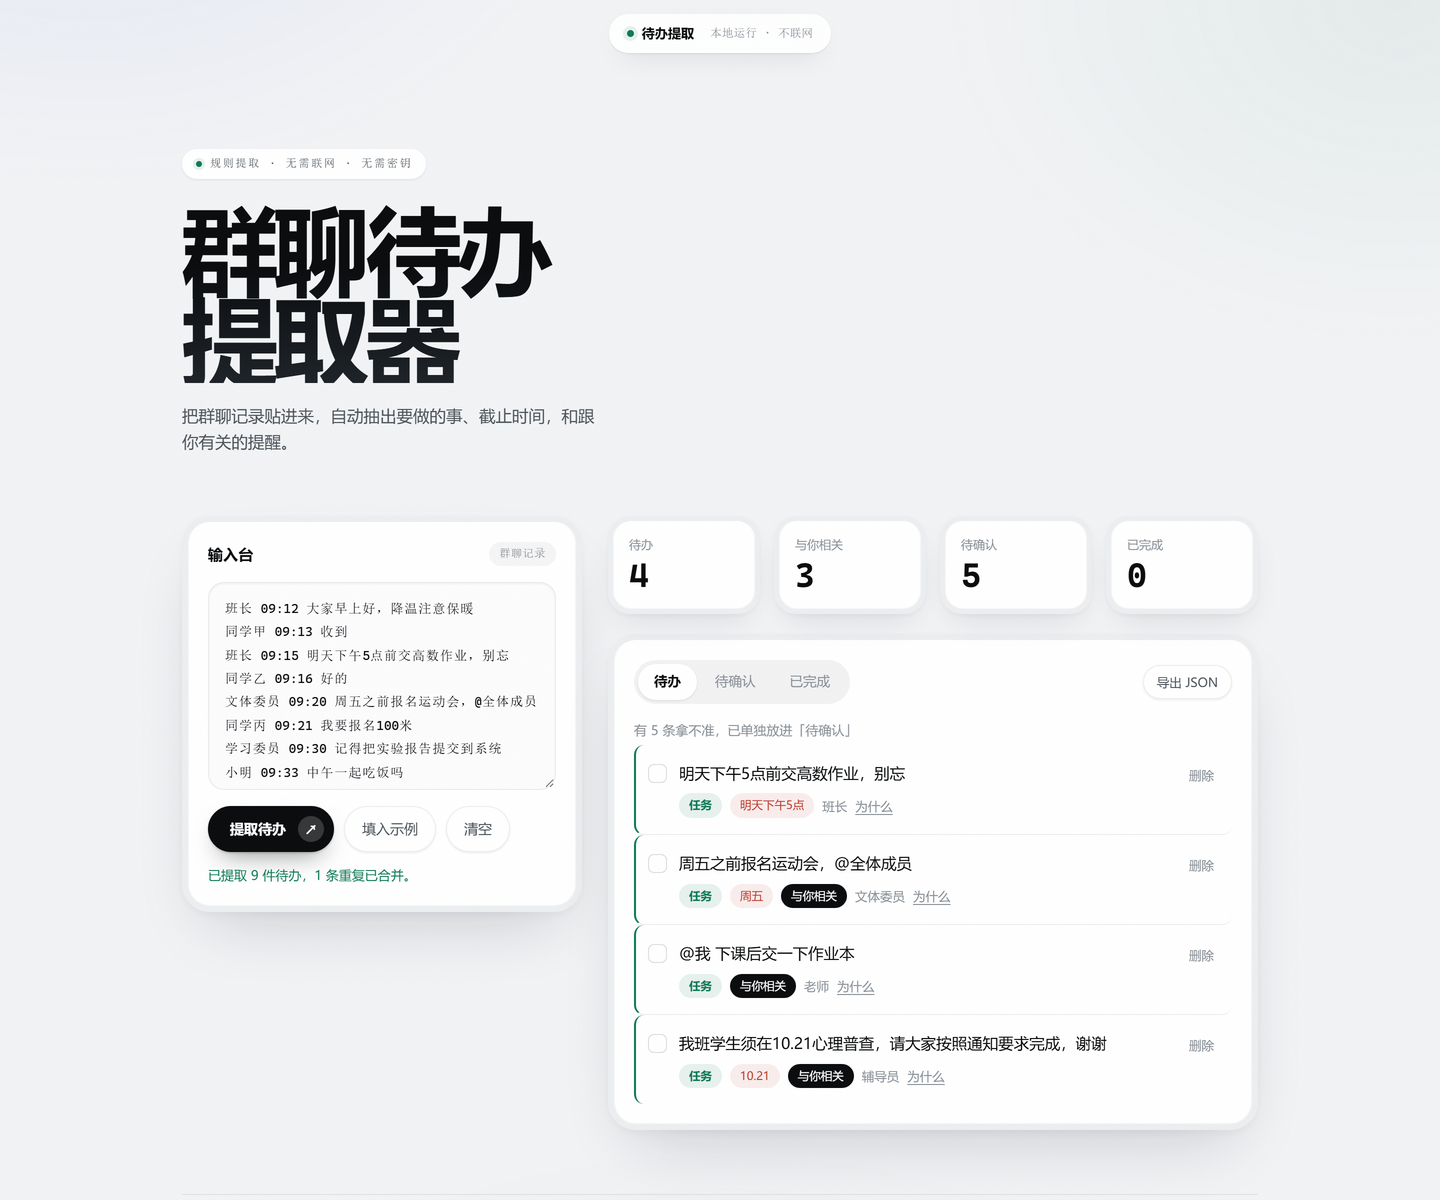
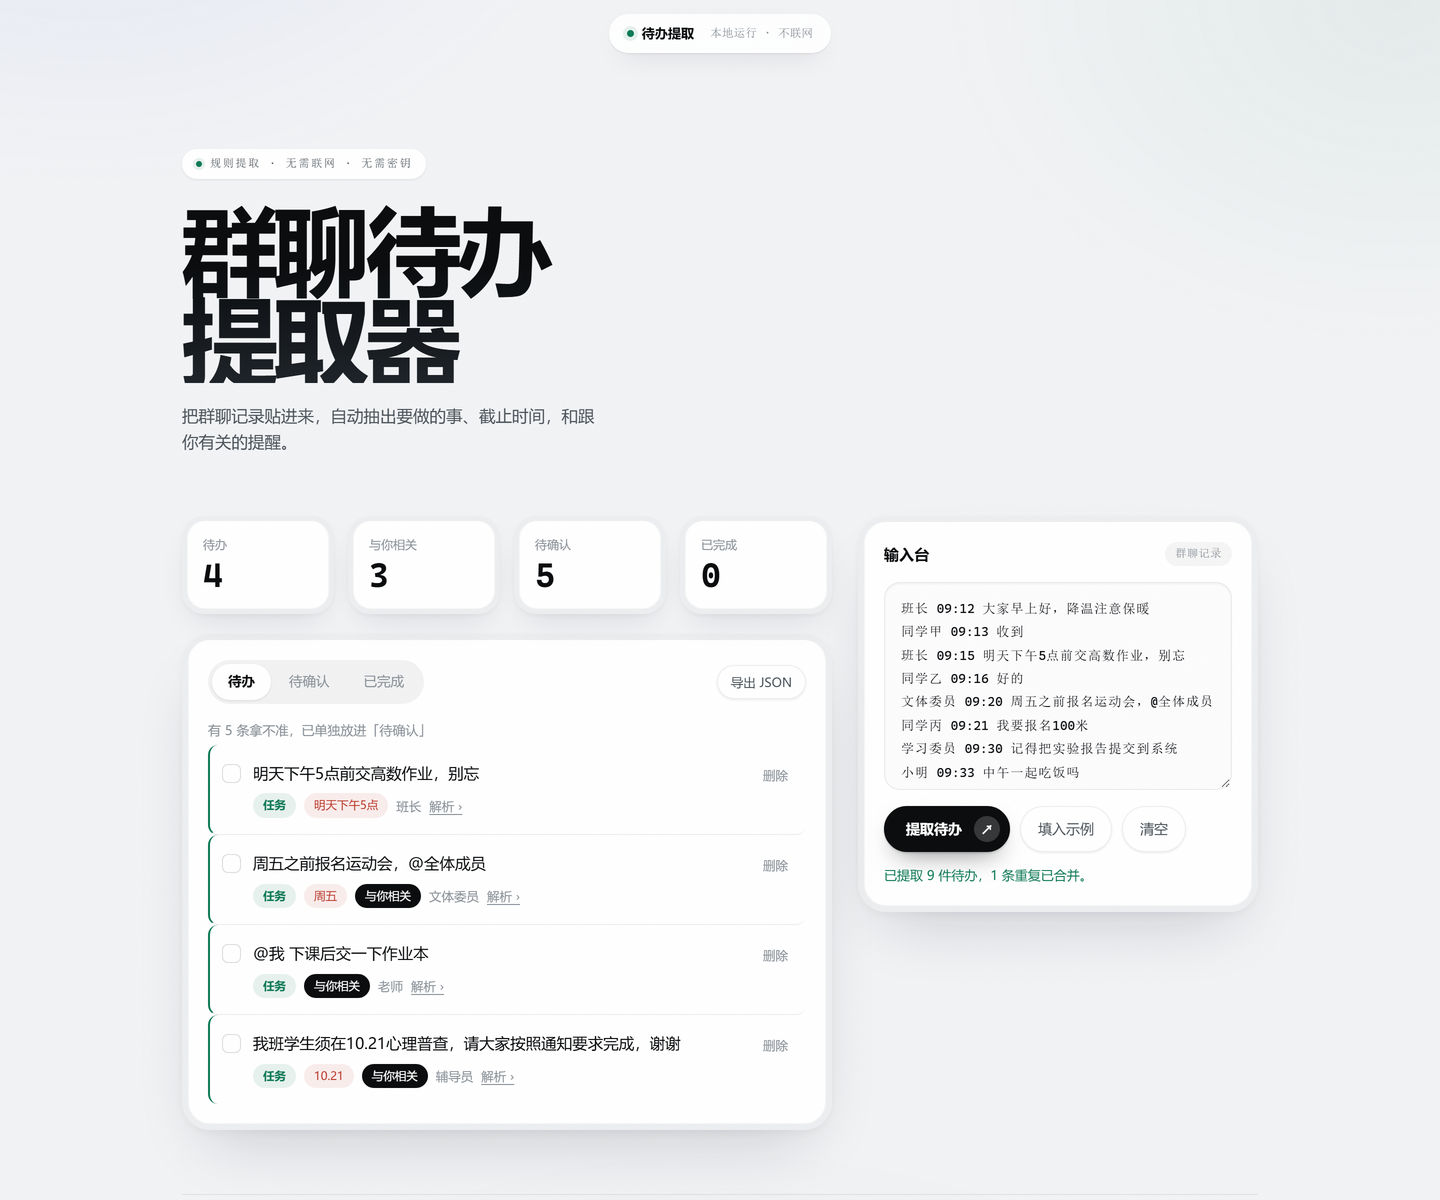
布局调整：结果左移、输入台右移，点击条目就地展开解析
- 栅格改为「左结果 / 右输入台」（grid-template-areas），移动端仍为单列、输入台在前
- 右侧面板双态：输入台 ↔ 解析（点某条即切换，点同一行或「返回输入台」切回）
- 解析面板展示类型/状态/截止/相关性、逐条提取依据、原文高亮
- 原行内「为什么」展开改为「解析 ›」入口，条目整行可点、选中态高亮
- 切标签、重新提取、清空时自动收起解析；移动端选中后平滑滚到面板
- 桌面 1440 / 移动 390 零横向溢出，vision 双端复核通过

diff --git a/app.js b/app.js
@@ -40,10 +40,19 @@
   const statRelevantEl = document.getElementById('stat-relevant');
   const statConfirmEl = document.getElementById('stat-confirm');
   const statDoneEl = document.getElementById('stat-done');
+  const sideEl = document.getElementById('side');
+  const consoleEl = document.getElementById('console');
+  const detailEl = document.getElementById('detail');
+  const detailTextEl = document.getElementById('detail-text');
+  const detailMetaEl = document.getElementById('detail-meta');
+  const detailReasonsEl = document.getElementById('detail-reasons');
+  const detailSourceEl = document.getElementById('detail-source');
+  const detailCloseBtn = document.getElementById('detail-close');
   const tabEls = Array.from(document.querySelectorAll('.tab'));
 
   let items = [];
   let filter = 'todo';
+  let selectedId = null;
 
   // ---- 解析一行：昵称 时间 内容 / 昵称: 内容 / 纯内容 ----
   function parseLine(line) {
@@ -149,26 +158,84 @@
 
   function itemHTML(item) {
     const cls = item.done ? 'done' : item.state;
+    const selected = item.id === selectedId ? ' item--selected' : '';
     const typeKey = item.type || 'task';
     const type = '<span class="chip chip--type chip--type-' + typeKey + '">' + TYPE_LABEL[typeKey] + '</span>';
     const deadline = item.deadline ? '<span class="chip chip--deadline">' + escapeHTML(item.deadline) + '</span>' : '';
     const source = item.source ? '<span class="source">' + escapeHTML(item.source) + '</span>' : '';
     const me = item.relevant ? '<span class="chip chip--me">与你相关</span>' : '';
-    const why = item.reasons.length ? '<span class="why-reason">' + escapeHTML(item.reasons.join(' · ')) + '</span>' : '';
     return '' +
-      '<li class="item item--' + cls + '" data-id="' + item.id + '">' +
+      '<li class="item item--' + cls + selected + '" data-id="' + item.id + '">' +
         '<input type="checkbox" class="done-toggle"' + (item.done ? ' checked' : '') + '>' +
         '<div class="body">' +
           '<div class="text">' + escapeHTML(item.text) + '</div>' +
           '<div class="meta">' + type + deadline + me + source +
-            '<button type="button" class="why-toggle">为什么</button>' +
-          '</div>' +
-          '<div class="why" hidden>' + why +
-            '<p class="why-source">原文：' + highlightedSource(item) + '</p>' +
+            '<span class="item__more">解析 ›</span>' +
           '</div>' +
         '</div>' +
         '<button type="button" class="del" title="删除">删除</button>' +
       '</li>';
+  }
+
+  function chipHTML(label, cls) {
+    return '<span class="chip ' + cls + '">' + escapeHTML(label) + '</span>';
+  }
+
+  // 右侧「解析」：把这条为什么被抽出来的依据摊开
+  function renderDetail(item) {
+    const typeKey = item.type || 'task';
+    const stateLabel = item.done ? '已完成' : (item.state === 'todo' ? '待办' : '待确认');
+
+    detailTextEl.textContent = item.text;
+
+    const meta = [
+      chipHTML(TYPE_LABEL[typeKey], 'chip--type chip--type-' + typeKey),
+      chipHTML(stateLabel, 'chip--state' + (item.done ? ' chip--state-done' : ''))
+    ];
+    if (item.deadline) meta.push(chipHTML('截止 ' + item.deadline, 'chip--deadline'));
+    if (item.relevant) meta.push(chipHTML('与你相关', 'chip--me'));
+    if (item.source) meta.push('<span class="source">' + escapeHTML(item.source) + '</span>');
+    detailMetaEl.innerHTML = meta.join('');
+
+    const reasons = item.reasons.length ? item.reasons : ['未命中特定规则，按时间或相关性保留'];
+    detailReasonsEl.innerHTML = reasons.map(function (r) {
+      return '<li>' + escapeHTML(r) + '</li>';
+    }).join('');
+
+    detailSourceEl.innerHTML = highlightedSource(item);
+  }
+
+  function revealSide() {
+    if (!window.matchMedia('(max-width: 919px)').matches) return;
+    const reduce = window.matchMedia('(prefers-reduced-motion: reduce)').matches;
+    sideEl.scrollIntoView({ behavior: reduce ? 'auto' : 'smooth', block: 'start' });
+  }
+
+  // 点某条 → 输入台换成解析；再点一次（或点返回）换回来
+  function selectItem(id) {
+    const item = items.find(function (i) { return i.id === id; });
+    if (!item) return;
+    selectedId = id;
+    renderDetail(item);
+    consoleEl.hidden = true;
+    detailEl.hidden = false;
+    renderList();
+    revealSide();
+  }
+
+  function closeDetail() {
+    selectedId = null;
+    detailEl.hidden = true;
+    consoleEl.hidden = false;
+    renderList();
+    revealSide();
+  }
+
+  // 重新提取/清空时收起解析
+  function resetSelection() {
+    selectedId = null;
+    detailEl.hidden = true;
+    consoleEl.hidden = false;
   }
 
   function renderList() {
@@ -238,6 +305,7 @@
     const text = chatEl.value;
     if (!text.trim()) {
       items = [];
+      resetSelection();
       renderAll();
       setActiveTab();
       setHint('先把群聊记录贴进来，再点提取。', 'warn');
@@ -246,6 +314,7 @@
     const r = extractAll(text);
     items = r.items;
     filter = 'todo';
+    resetSelection();
     renderAll();
     setActiveTab();
     if (items.length === 0) {
@@ -265,6 +334,7 @@
     items = [];
     filter = 'todo';
     setHint('');
+    resetSelection();
     renderAll();
     setActiveTab();
     save();
@@ -273,6 +343,8 @@
   tabEls.forEach(function (t) {
     t.addEventListener('click', function () {
       filter = t.dataset.filter;
+      // 切标签后选中项可能不在当前列表里，收起解析避免「面板有内容但没选中项」
+      if (selectedId) resetSelection();
       setActiveTab();
       renderList();
     });
@@ -289,22 +361,23 @@
       item.done = e.target.checked;
       save();
       renderSummary();
+      if (selectedId === id) renderDetail(item);
       renderList();
-      return;
-    }
-    if (e.target.classList.contains('why-toggle')) {
-      const why = itemEl.querySelector('.why');
-      why.hidden = !why.hidden;
-      e.target.textContent = why.hidden ? '为什么' : '收起';
       return;
     }
     if (e.target.classList.contains('del')) {
       if (!window.confirm('删除这条待办？')) return;
       items = items.filter(function (i) { return i.id !== id; });
+      if (selectedId === id) resetSelection();
       save();
       renderAll();
+      return;
     }
+    if (selectedId === id) closeDetail();
+    else selectItem(id);
   });
+
+  detailCloseBtn.addEventListener('click', closeDetail);
 
   const exportBtn = document.getElementById('export');
   exportBtn.addEventListener('click', function () {

diff --git a/styles.css b/styles.css
@@ -163,12 +163,20 @@ body {
   font-size: 16.5px;
 }
 
-/* ---- Bento 栅格 ---- */
+/* ---- Bento 栅格：左结果 / 右输入台 ---- */
 .grid { display: grid; grid-template-columns: 1fr; gap: 20px; }
 
+.side { scroll-margin-top: 76px; }
+
 @media (min-width: 920px) {
-  .grid { grid-template-columns: minmax(0, 400px) minmax(0, 1fr); gap: 26px; align-items: start; }
-  .console { position: sticky; top: 86px; }
+  .grid {
+    grid-template-columns: minmax(0, 1fr) minmax(0, 400px);
+    grid-template-areas: "main side";
+    gap: 26px;
+    align-items: start;
+  }
+  .output { grid-area: main; }
+  .side { grid-area: side; position: sticky; top: 86px; }
 }
 
 /* ---- Double-Bezel：白卡嵌在银色托盘里 ---- */
@@ -363,6 +371,7 @@ textarea:focus {
   padding: 16px 12px;
   border-left: 2px solid transparent;
   border-radius: 10px;
+  cursor: pointer;
   transition: background 200ms var(--ease-out);
 }
 
@@ -420,6 +429,8 @@ textarea:focus {
 
 .chip--deadline { color: var(--red); background: var(--red-soft); }
 .chip--me { color: #fff; background: var(--ink); }
+.chip--state { color: var(--ink-2); background: rgba(12, 20, 32, 0.06); }
+.chip--state-done { color: var(--weak); }
 
 .chip--type { font-weight: 550; }
 .chip--type-task { color: var(--green); background: var(--green-soft); }
@@ -443,18 +454,53 @@ textarea:focus {
 
 @media (hover: hover) and (pointer: fine) { .why-toggle:hover { color: var(--ink); } }
 
-.why {
-  margin-top: 12px;
+/* ---- 行内「解析 ›」提示 ---- */
+.item__more { font-size: 12.5px; color: var(--weak); text-decoration: underline; text-underline-offset: 3px; }
+.item--selected { background: rgba(12, 20, 32, 0.045); }
+.item--selected .item__more { color: var(--ink); }
+
+/* ---- 解析面板：点击某条后替换输入台 ---- */
+.detail .panel__inner { display: flex; flex-direction: column; gap: 18px; }
+
+.detail__text { margin: 0; font-size: 15.5px; font-weight: 650; line-height: 1.5; }
+
+.detail__meta { display: flex; flex-wrap: wrap; align-items: center; gap: 8px; }
+
+.detail__label {
+  margin: 0 0 9px;
+  font-family: var(--mono);
+  font-size: 10.5px;
+  letter-spacing: 0.14em;
+  text-transform: uppercase;
+  color: var(--weak);
+}
+
+.detail__reasons { margin: 0; padding: 0; list-style: none; display: flex; flex-direction: column; gap: 7px; }
+
+.detail__reasons li { position: relative; padding-left: 15px; font-size: 13.5px; color: var(--ink-2); }
+
+.detail__reasons li::before {
+  content: "";
+  position: absolute;
+  left: 0;
+  top: 8px;
+  width: 5px;
+  height: 5px;
+  border-radius: 999px;
+  background: var(--green);
+}
+
+.detail__source {
+  margin: 0;
   padding: 13px 15px;
   border-radius: 14px;
   background: #F7F8F9;
   box-shadow: inset 0 0 0 1px var(--line);
   font-size: 13.5px;
+  color: var(--ink-2);
 }
 
-.why-reason { margin: 0 0 8px; font-weight: 650; color: var(--green); }
-.why-source { margin: 0; color: var(--weak); }
-.why-source mark { background: var(--mark); color: var(--ink); padding: 0 3px; border-radius: 3px; }
+.detail__source mark { background: var(--mark); color: var(--ink); padding: 0 3px; border-radius: 3px; }
 
 .del {
   flex: none;

diff --git a/index.html b/index.html
@@ -24,24 +24,45 @@
     </header>
 
     <div class="grid">
-      <section class="panel console">
-        <div class="panel__inner">
-          <div class="panel__head">
-            <h2 class="panel__title">输入台</h2>
-            <span class="panel__tag mono">群聊记录</span>
+      <div class="side" id="side">
+        <section class="panel console" id="console">
+          <div class="panel__inner">
+            <div class="panel__head">
+              <h2 class="panel__title">输入台</h2>
+              <span class="panel__tag mono">群聊记录</span>
+            </div>
+            <textarea id="chat" spellcheck="false" placeholder="每行一条，格式：昵称 时间 内容&#10;班长 09:15 明天下午5点前交高数作业"></textarea>
+            <div class="actions">
+              <button type="button" id="extract" class="btn btn--primary">
+                <span>提取待办</span>
+                <span class="btn__icon" aria-hidden="true">↗</span>
+              </button>
+              <button type="button" id="sample" class="btn btn--ghost">填入示例</button>
+              <button type="button" id="clear" class="btn btn--ghost">清空</button>
+            </div>
+            <p id="hint" class="hint" role="status" aria-live="polite"></p>
           </div>
-          <textarea id="chat" spellcheck="false" placeholder="每行一条，格式：昵称 时间 内容&#10;班长 09:15 明天下午5点前交高数作业"></textarea>
-          <div class="actions">
-            <button type="button" id="extract" class="btn btn--primary">
-              <span>提取待办</span>
-              <span class="btn__icon" aria-hidden="true">↗</span>
-            </button>
-            <button type="button" id="sample" class="btn btn--ghost">填入示例</button>
-            <button type="button" id="clear" class="btn btn--ghost">清空</button>
+        </section>
+
+        <section class="panel detail" id="detail" hidden>
+          <div class="panel__inner">
+            <div class="panel__head">
+              <h2 class="panel__title">解析</h2>
+              <button type="button" id="detail-close" class="btn btn--ghost btn--sm">返回输入台</button>
+            </div>
+            <p class="detail__text" id="detail-text"></p>
+            <div class="detail__meta" id="detail-meta"></div>
+            <div class="detail__block">
+              <p class="detail__label">提取依据</p>
+              <ul class="detail__reasons" id="detail-reasons"></ul>
+            </div>
+            <div class="detail__block">
+              <p class="detail__label">原文</p>
+              <p class="detail__source" id="detail-source"></p>
+            </div>
           </div>
-          <p id="hint" class="hint" role="status" aria-live="polite"></p>
-        </div>
-      </section>
+        </section>
+      </div>
 
       <section class="output">
         <div id="placeholder" class="panel placeholder">

diff --git a/README.md b/README.md
@@ -8,19 +8,19 @@
 
 1. 下载本项目，双击 `index.html` 用浏览器打开即可，无需安装、无需联网。
 2. 把群聊记录贴进文本框（每行一条，格式：`昵称 时间 内容`），或点「填入示例」看演示。
-3. 点「提取待办」，结果按 **待办 / 待确认 / 已完成** 三个标签分组。
-4. 每条可以勾选完成、点「为什么」看提取依据、点「删除」移除；右上角「导出 JSON」一键下载结构化结果。
+3. 点「提取待办」，结果按 **待办 / 待确认 / 已完成** 三个标签分组，显示在左侧。
+4. 点任意一条，右侧「输入台」会切换成这条的**解析**——列出提取依据，并在原文里高亮关键片段；点「返回输入台」或再点一次该条即切回。每条也能勾选完成、点「删除」移除。右上角「导出 JSON」一键下载结构化结果。
 
 ## 做了什么（第一版）
 
 - **规则提取**：按动作词、截止时间、`@你`、面向全班等信号抽取待办，全部是本地正则/关键词规则，不需要 API、不需要密钥。
-- **可解释**：每条待办点「为什么」，能看到它命中了哪个关键词 / 时间 / 与你相关的理由，原文还会高亮出关键片段。
+- **可解释**：点开任意一条，右侧解析面板会摊开它命中了哪个关键词 / 时间 / 与你相关的理由，原文里高亮出对应片段。
 - **待确认**：措辞含糊（"可能""到时候""记得"）的单独归入「待确认」，交给人判断，而不是假装确定。
 - **去重**：同一句话重复出现自动合并，并提示合并了几条。
 - **类型标签**：每条标为 **任务 / 提醒 / 请求** 三类之一，一眼区分"要去做""知道一下""有人求你"。
 - **导出 JSON**：把结果导出成结构化 JSON，方便接后续工具或写进复盘材料。
 - **本地存储**：数据只存在本浏览器（localStorage），刷新不丢，不上传、不联网。
-- **界面**：银白浮层风格，浮起的白色卡片 + 极柔扩散阴影 + 超大粗体标题，非对称 Bento 布局，纯手写 CSS（无框架、无构建），含入场与逐条动效，并适配移动端与「减少动态效果」系统设置。
+- **界面**：银白浮层风格，浮起的白色卡片 + 极柔扩散阴影 + 超大粗体标题；左侧放结果、右侧放输入台，点条目时输入台原地切换成解析面板。纯手写 CSS（无框架、无构建），含入场与逐条动效，适配移动端与「减少动态效果」系统设置。
 
 ## 暂不做什么
 
